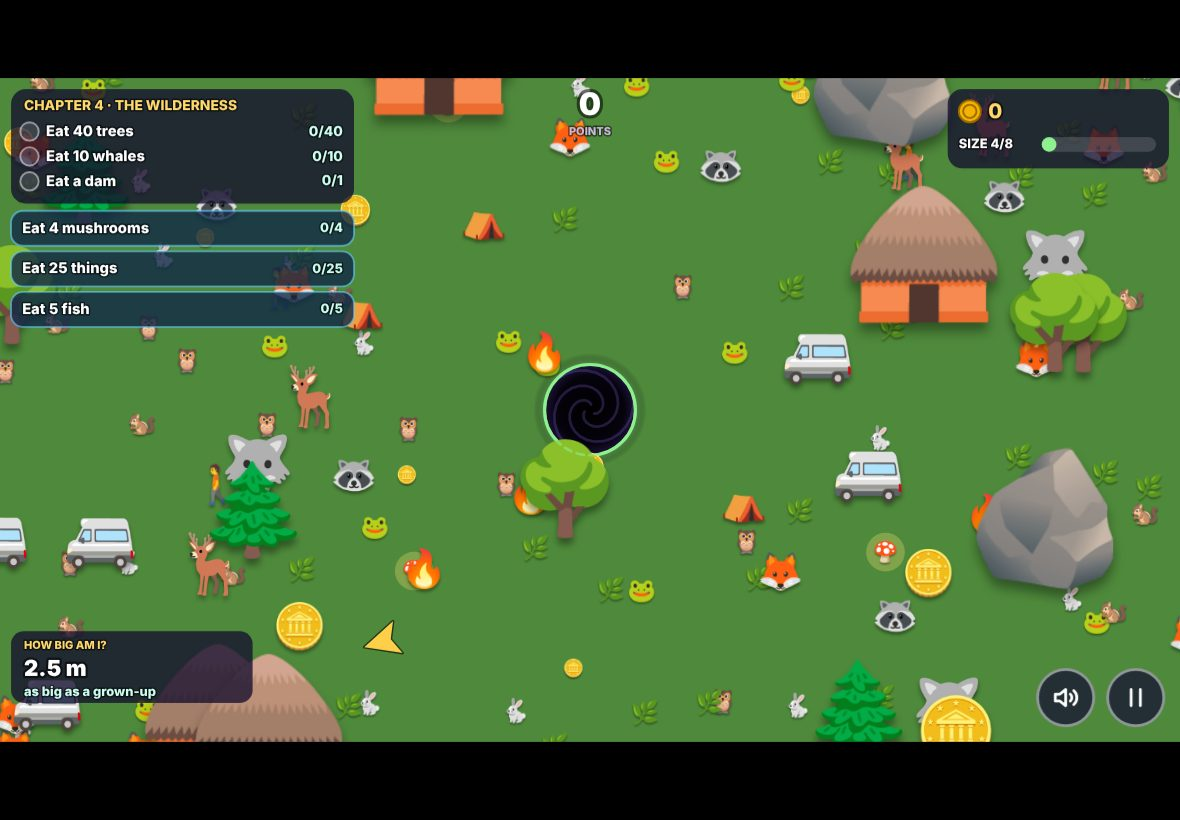
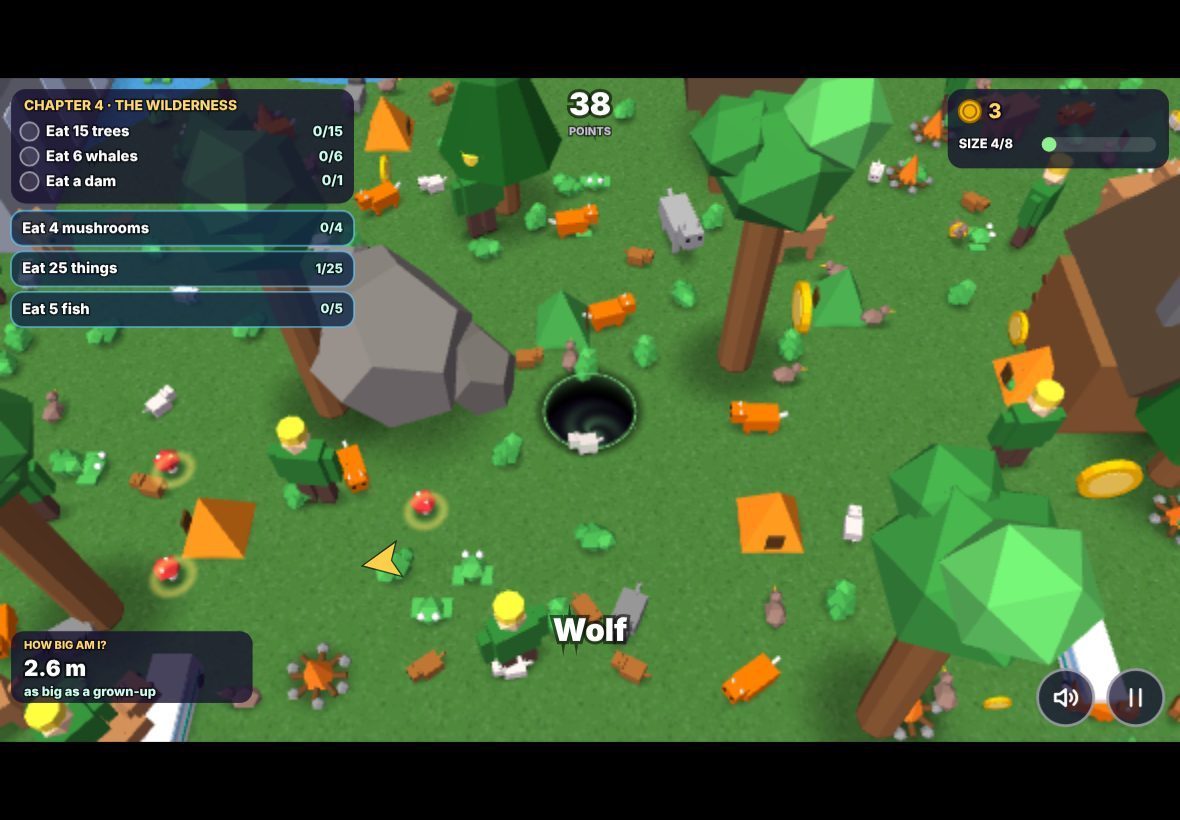
v3 docs: DECISIONS v3 section, README, refreshed screenshots (incl. looming tower + mountain), perf probe CPU line
Claude-Session: https://claude.ai/code/session_01FDCb4SaRfZmdwnifeu9mQx

diff --git a/tests/perf.js b/tests/perf.js
@@ -12,12 +12,15 @@ const URL = process.env.HH_URL || 'http://localhost:8765/index.html';
     G.cam.x = G.x; G.cam.y = G.y; });
   await p.waitForTimeout(1500);
   const r = await p.evaluate(() => new Promise(res => {
-    const { G } = HH; let n = 0, t0 = performance.now(), worst = 0, last = t0;
+    const { G } = HH; let n = 0, t0 = performance.now(), worst = 0, last = t0; const rp0 = HH.V3.repaints || 0;
     const f = now => { n++; worst = Math.max(worst, now - last); last = now;
       const a = (now - t0) / 1600; G.ptr = [590 + Math.cos(a) * 260, 410 + Math.sin(a) * 200];   // keep steering in a loop
-      if (now - t0 < 10000) requestAnimationFrame(f); else { G.ptr = null; res({ fps: n / ((now - t0) / 1000), worstMs: worst, vis: G.vis.length, lvl: G.lvl, gl: HH.V3.ren.getContext().getParameter(HH.V3.ren.getContext().RENDERER) }); } };
+      if (now - t0 < 10000) requestAnimationFrame(f); else { G.ptr = null; res({ fps: n / ((now - t0) / 1000), worstMs: worst, repaints: (HH.V3.repaints || 0) - rp0, pr: HH.V3.ren.getPixelRatio(), vis: G.vis.length, lvl: G.lvl, gl: HH.V3.ren.getContext().getParameter(HH.V3.ren.getContext().RENDERER) }); } };
     requestAnimationFrame(f); }));
-  console.log(`PERF Ch3 downtown size ${r.lvl}: avg ${r.fps.toFixed(1)} fps over 10 s, worst frame ${r.worstMs.toFixed(0)} ms, ${r.vis} objects near the camera (${r.gl})`);
+  // the CPU side on its own (game logic + building the frame), without waiting for the GPU
+  const cpu = await p.evaluate(() => { const { G } = HH; const t = performance.now(); for (let i = 0; i < 60; i++) { G.now += 33; G.t += 1 / 30; HH.update(1 / 30); HH.render(); } return (performance.now() - t) / 60; });
+  console.log(`CPU per frame (update + scene build, no GPU wait): ${cpu.toFixed(1)} ms`);
+  console.log(`PERF Ch3 downtown size ${r.lvl}: avg ${r.fps.toFixed(1)} fps over 10 s, worst frame ${r.worstMs.toFixed(0)} ms, ${r.vis} objects near the camera, ${r.repaints} ground repaints, final pixel ratio ${r.pr.toFixed(2)} (${r.gl})`);
   console.log(r.fps >= 50 ? 'PASS perf >= 50 fps' : 'BELOW TARGET (< 50 fps)', '; console errors:', errs.length, errs.slice(0, 3));
   await b.close(); process.exit(r.fps >= 50 && !errs.length ? 0 : 1);
 })();

diff --git a/index.html b/index.html
@@ -2715,7 +2715,7 @@ function grain() {
 function paintGround(rect) {
   const C = G.C, ctx = V3.gctx, w = rect[2] - rect[0], h = rect[3] - rect[1];
   const sx = REG_W / w, sy = REG_H / h;
-  V3.menuPaint = 0;
+  V3.menuPaint = 0; V3.repaints = (V3.repaints || 0) + 1;
   ctx.setTransform(1, 0, 0, 1, 0, 0); ctx.fillStyle = C.bgc || '#000'; ctx.fillRect(0, 0, REG_W, REG_H);
   if (C.space) {                                     // a space floor: stars fixed in world space
     const cs = 180 / G.cam.z;

diff --git a/docs/DECISIONS.md b/docs/DECISIONS.md
@@ -66,3 +66,214 @@ one-line change if the owner disagrees.
 ## Things not done
 - No skins, shop items, lives, ads, accounts, or multiplayer (spec).
 - GitHub Pages, merging, and other repos were not touched (spec).
+
+---
+
+# v3: 3D revamp + pace retune (builder decisions, 2026-10-30)
+
+Authority: SPEC v3 addendum > v2 rulings above > existing code. Every v2 ruling above still
+holds (totem poles are scenery, Crystal Moon, stairs gated on a bed, the Sun locked until
+all 8 planets, avoid quests reset and never fail, respawn rules), except the two "Art"
+bullets about code-drawn sprites and emoji, which the 3D model library replaces.
+
+## Renderer
+- **Three.js r147 UMD build**, vendored as `three.min.js` at the repo root (from the npm
+  package `three@0.147.0`, `build/three.min.js`, global `THREE`, no CDN). r147 is one of
+  the last releases that still ships the classic UMD file. It is loaded by a plain
+  `<script>` tag before the game script, so the site works offline after the first load.
+- **Exactly one renderer.** The world is WebGL (`<canvas id="gl">`). The HUD, name plates,
+  compass arrow, chapter transitions and cinematic captions are drawn on the existing 2D
+  canvas (`#cv`) layered above it, and all DOM menus are unchanged. Nothing draws the
+  world in 2D any more (see Cleanup).
+- **Camera.** Perspective, fov 38°, fixed 55° tilt, always looking at the camera point
+  that v2 already eased toward the hole. Its distance is derived from v2's zoom so the
+  same world width fills the 1280×720 stage, which keeps zoom-with-size, Wide Eyes and the
+  stage contain-fit exactly as in v2.
+- **Camera-relative world.** Every frame places objects relative to the camera, which
+  keeps float precision on the huge maps and makes the Ch 5 wrap-around globe seamless.
+- **Ground.** One plane. Its texture is a 2048×1536 canvas region that follows the camera
+  and is painted by each chapter's own v2 zone painter (`bg`), so roads, sand, grass and
+  water look the way they did and water is still never eaten. It is repainted when the
+  view leaves the region or the zoom changes by more than 28%. Space chapters hash their
+  stars in world coordinates so they do not swim.
+- **The hole.** The ground shader cuts the hole out and adds a soft shadow ring and a rim
+  band that flashes on each swallow. Under it sits a shallow pit: a dark inner wall shader
+  plus a slowly swirling floor disc. A faint ghost of the rim is drawn on top of
+  everything, so the hole is never lost behind tall things.
+- **X-ray.** Anything standing between the camera and the pit is drawn see-through
+  (32%). My call: with real heights, a backpack or a tower would otherwise hide the hole
+  completely.
+- **Lighting.** A hemisphere sky/ground light plus one sun, computed per face on the CPU
+  while the frame is built (identical maths to Lambert). There are no shadow maps; every
+  object gets a soft blob shadow quad that is also cut out by the hole.
+- **Landmark name plates are projected labels.** Each label is projected from the top of
+  its object onto the HUD canvas, so the text stays crisp and readable at every zoom and
+  never turns edge-on. Billboard sprites were the other option; projected labels need no
+  per-label textures.
+- **Ch 1 walls** are real 3D boxes (140 units high, with a dark cap) built once per
+  chapter from the v2 wall rectangles. Doors face their gaps.
+
+## Model library
+- 203 procedural recipes built from box, cylinder, cone, sphere, prism, torus and
+  rock primitives, flat shaded with vertex colours. Every type in all 7 chapters (410
+  type entries) maps to a recipe and parameters, with per-chapter overrides where one name
+  means different things (for example the Ch 4 island and the Ch 5 island). Families share
+  recipes with palette variants (cars, trucks, buses; houses; towers; trees; quadrupeds;
+  boats; planets; stars).
+- **Footprint and height.** Each model is normalised so that its longest footprint side is
+  1, which equals the object's **fit-width** (`1.3 × the tier's v2 size`). Heights are real
+  ratios: a tower is 3.6 fit-widths tall, a sedan about 0.4, a mountain 0.7 to 0.85. A v2
+  size factor `s > 1` now only makes a thing taller, so tiers and fits stay honest.
+- The data test checks that every type resolves to a recipe, a footprint (w×d) and a
+  height. It caught 11 types with recipes but no mapping (treasure chest, crown and nine
+  World Tour foods, the doll and the tuk-tuk), which are now mapped.
+- Natural things (trees, rocks, animals) get a random yaw. Authored furniture keeps the
+  orientation it was placed with. Generated buildings snap to quarter turns.
+- Letter, number and answer tiles are chunky 3D tiles whose top face is a small canvas
+  texture. Coins are spinning 3D coins at 0.6 of their tier's fit-width.
+- Rocky Mountains got a slate-blue palette so they read against the grey mountain zone.
+
+## Topple physics
+- **Fits** when `fit-width <= hole diameter`. Because the hole's diameter at size L runs
+  from `1.3 × size(L)` up to the next size, this is exactly "tier <= size", so v2's
+  progression is unchanged. A fitting object near the hole is captured: it tips over the
+  rim toward the centre, sinks below the ground, spins and shrinks (340 ms), then the v2
+  eat pipeline runs (XP, coins, quests, name flash, speech).
+- **Support** is the share of the object's footprint circle that still has ground (circle
+  overlap with the hole). Lean grows with missing support. A fitting thing leans harder as
+  it goes. A too-big thing leans only up to a rest angle and stays put, with the v2 bump
+  thud and wobble.
+- **Wobble rule.** From 85% of the needed size, each solid bump (hole moving faster than a
+  quarter of its own width per second, at most one bump every 300 ms) adds 0.36 wobble,
+  so three solid bumps tip it in. Below 85% bumps only wobble it. Inactive things (wrong
+  tiles, the Sun before the planets, gated items) never fall at any size.
+- Movers (people, animals, cars) lean the same way. The Ch 5 Moon and the Ch 7 finale are
+  rebuilt on the same capture and fall system, with scripted parameters (a slow 2.6 s fall
+  for the Moon; the two giant stars spiral in, then everything in view, then the pit opens
+  until the swirl fills the screen).
+- Doors (anchored while size <= 2), the stairs and bed gate, the Sun lock and the totem
+  poles behave as in v2.
+
+## Spawning
+- v2 chunk semantics are unchanged (authored grid plus generated tier layers, respawn
+  rules). Two additions: the gather rectangle is padded by each layer's half fit-width, and
+  authored cells by the widest authored footprint. Otherwise a mountain whose centre is just
+  off screen would vanish while its slopes should still be visible.
+- Off-screen things are culled per object, and things smaller than 16 px on screen are
+  drawn as a single box in the model's main colour.
+
+## Pace retune
+- **Growth need is ×0.20 of v2, not ×0.35.** At ×0.35 with +50% XP the bot's checklist
+  times were 2.3 to 5.0 minutes (Ch 2, 4, 5, 6 and 7 failed the gate). The addendum says
+  to tune until the gate passes. The final values are need ×0.20 and XP per eat ×1.8
+  (coins per eat scale the same way).
+- Hole speed is +20% (3.6 to 4.32 hole-widths per second). Ch 5 travels at 5.2 because a
+  globe has the most dead travel. Every run starts 30% of the way into size 1 (plus the
+  Head Start upgrade).
+- **Checklist trims** are as specified: Ch 1 Lego 12 and soldiers 6; Ch 4 trees 15 and
+  whales 6; Ch 5 stamps 6 (Wonders stay 7); Ch 6 belt items 10.
+- **Smaller worlds.**
+  - Ch 2 is now 3×2 blocks of 20 houses (120 houses), with the park still one block away.
+  - Ch 3 is ×0.6, Ch 4 ×0.55, and Ch 6 and Ch 7 ×0.42. A `shrinkMap` wrapper scales the
+    map size, start, zones, regions, hints, areas, paths and painters together, so every
+    named place keeps its real relative position.
+  - Ch 5 is 200 map units per degree (was 400).
+  - More eating near the hole comes from the shrink, because the same zone densities now
+    sit in a smaller area.
+- **v2 saves.** These are additive only, on the same key `hungry-hole-data-v1`:
+  - A new per-chapter flag `mv: 3` marks a position as being on a v3 map. A v2 save
+    without it has its position rescaled once onto the smaller map, and clamped inside it.
+  - Checklist counts above a trimmed target are clamped to the new target. If the new
+    targets are already met, the chapter completes on load.
+  - The behaviour test loads a hand-written v2 save to cover this.
+
+### Balance table (seeded bot, `node tests/balance-bot.js`, checklist sim-minutes)
+| Chapter | seed 0 | seeds 0 to 4 | gate |
+|---|---|---|---|
+| Ch 1 The House | 0.85 | 0.55 to 2.33 | <= 2.5 |
+| Ch 2 Neighbourhood | 1.80 | 1.39 to 1.82 | <= 2.5 |
+| Ch 3 Metro Vancouver | 0.93 | 0.93 to 2.15 | <= 2.5 |
+| Ch 4 Wilderness | 2.02 | 1.87 to 2.05 | <= 2.5 |
+| Ch 5 World Tour | 2.38 | 2.28 to 2.83 | <= 3.0 |
+| Ch 6 Space | 2.30 | 2.30 to 2.77 | <= 3.0 |
+| Ch 7 The Humbling | 2.29 | 2.29 to 2.40 | <= 2.5 |
+
+The bot now starts each chapter from a fresh state, makes seeded choices
+(`BOT_SEED=n`), steers at the game's own speed, stops when the checklist is done and exits
+non-zero if any chapter misses the gate. Ch 1 has the widest spread across seeds (how fast the bot
+reaches its last checklist items varies most there).
+
+## Performance
+- Every visible object is baked into one dynamic mesh per material each frame:
+  - solid, see-through, glowing parts, blob shadows and helper glows;
+  - so there are about 7 draw calls in total, with no instancing.
+- Lighting is baked per face during that pass, so the GPU runs the cheapest material.
+- More savings:
+  - Off-screen culling per object.
+  - Tiny things are drawn as single boxes.
+  - The ground texture has no mipmaps (it is repainted at the current zoom anyway).
+  - Antialiasing is on only when `devicePixelRatio < 1.5`.
+  - The 3D pixel ratio is capped at 1.6.
+- **Adaptive resolution.** When frames average over 22 ms, the 3D layer's pixel ratio
+  steps down, to half at most, and steps back up when frames are under 14 ms. The HUD
+  stays sharp.
+- **Probe result (`node tests/perf.js`)**:
+  - Setup: Ch 3 downtown at size 4/8 (mid), 1180×820, steering in a loop for 10 s.
+  - Result: **about 10 to 11 fps on average in headless Chromium in this build container.
+    This is below the ≥50 target.**
+  - Why: the container has no GPU, so Chromium draws WebGL with SwiftShader, a CPU
+    software rasteriser. Measured there:
+    - The full downtown scene takes about 160 ms of software-GPU time per frame at full
+      resolution.
+    - The ground quad alone takes about 15 ms.
+    - The fps scales with vertex count, not with pixels or materials.
+    - With the merged meshes hidden, the same page runs at 50 fps; with them it is about 13.
+  - Tried and kept: CPU lighting, culling, box LOD, adaptive resolution and texture
+    filtering.
+  - Tried and reverted: per-chunk static meshes. They drew more vertices and were slower
+    under SwiftShader.
+  - The CPU side of a frame (game logic plus building the frame) is small next to that.
+    Real hardware (an iPad GPU) runs vertex work orders of magnitude faster.
+  - The 50 fps figure should be confirmed on a real iPad (Kakashi). If it falls short
+    there, the next levers are `LOD_PX` (box LOD threshold), the region size `REG_W/REG_H`
+    and the gather margins.
+
+## Cleanup (exactly one renderer)
+Deleted v2 2D world-rendering code. `grep` on the final `index.html` finds 0 hits for each
+of these names:
+- `drawWorld` (the 2D world pass), `drawTile`, `drawHole`, `drawMenuBack`, `drawStars`
+  and `STARS`;
+- `SPR` (the sprite cache), `PAINT` (the 2D painters for code-drawn things), `ball` and
+  `EMOJI_FONT`;
+- the 2D eat queue `G.falling`, and the 2D `ptrWorld` (replaced by a ground raycast).
+
+The type tables are now `[name, tier, opts]`:
+- The emoji slot was removed from all 410 type entries.
+- All 2D-only `draw:` keys, the Ch 1 `box()` sprite helper and the planet and star colour
+  options are gone.
+- The Space helper filter uses a `planet` flag instead of `draw: 'planet'`.
+- A page-level check confirmed that every chapter's parsed type data (name, tier, tags,
+  size, plural, movement, sway) is byte-identical before and after.
+
+`render()` now has one world path (`drawWorld3D`) and one menu path (`drawMenu3D`, the same
+pit on a starry floor with props from every chapter circling in).
+
+## Tests
+- `tests/data.js`: as v2, plus every type resolves to a recipe, footprint and height. It
+  exits non-zero on failure.
+- `tests/behaviour.js` (16 checks), adapted to the physics:
+  - fits, falls in, then is eaten;
+  - too big leans toward the hole and is never eaten;
+  - wobble at 90% tips in, wobble at 80% never does;
+  - wrong tiles never fall, even at max size;
+  - checklist and unlock, tiny quests, avoid quests, sequences;
+  - Banker 60% and overdraft refused; upgrade spends only that wallet;
+  - per-chapter resume; export to import byte-equal; save survives reload;
+  - other keys untouched; a hand-written v2 save loads and plays;
+  - two-tap reset keeps other keys.
+- `tests/ui-flow.js`: unchanged flows, still clean.
+- `tests/balance-bot.js`: pace-gate table (above).
+- `tests/screens.js`: refreshed `docs/screenshots`, including `18-tower-looming` and
+  `19-mountain`.
+- `tests/perf.js`: the fps probe (above). It prints CPU and fps numbers and exits non-zero
+  while it is below 50 fps.

diff --git a/README.md b/README.md
@@ -2,6 +2,7 @@
 
 Family-only, not for sale. A LANDSCAPE browser game: drag a hole around huge places, eat things smaller than you, grow, finish chapter checklists and Tiny Quests, earn coins, buy per-chapter upgrades.
 
-- **One public repo** — build and play here. Live: https://zerononeex.github.io/hungry-hole/ (single `index.html` at repo root once built; merging to `main` publishes).
+- **One public repo** — build and play here. Live: https://zerononeex.github.io/hungry-hole/ (`index.html` + the vendored `three.min.js` at the repo root; merging to `main` publishes).
 - **The journey:** 7 chapters — The House, Backyard & Neighbourhood, The City, The Wilderness, World Tour, Fictional Space, The Humbling — from one Lego brick to becoming a black hole.
 - **Spec:** `docs/SPEC.md` (v2, owner restructure applied). Builders: branch, build, Kakashi verifies BEFORE merge.
+- **v3 (3D):** Three.js r147 vendored as `three.min.js` (no CDN, works offline). Builder decisions in `docs/DECISIONS.md`. Tests: `python3 -m http.server 8765` at the root, then `node tests/{data,behaviour,ui-flow,balance-bot,screens,perf}.js`.
